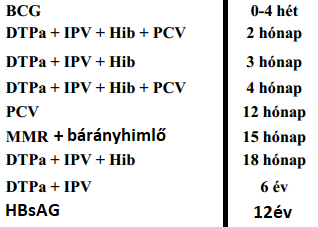
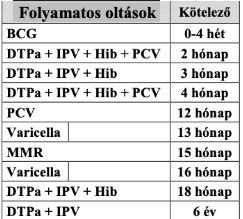
make some changes

diff --git a/Nepegeszsegtan/nepeg.html b/Nepegeszsegtan/nepeg.html
@@ -167,16 +167,6 @@
 		eset-kontroll vzsgálat -> esetekből indul ki: eséj
 </ul></details>
 
-<li>1) gyakorlat - pdf</li><ul>
-	<li>+ epidemiológia: szenzitiv, specifi, pozitiv negatív prediktív, kohorsz relatív kockázat, eset kontrol eséjhányados</li>
-	<li>+ alkohol eset</li>
-	<li>+ dohány eset</li>
-	<li>(+ jegyzeteim)</li>
-</ul>
-<li>2) teszt</li>
-<li>(3) moodle</li>
-
-
 <details open><summary class="mainTitle">Gyakorlati</summary><ul class="normal">
 	<details class="kerdes"><summary class="status">1) Egészségfejlesztési program tervezése a megadott kritériumok alapján</summary><ul class="normal">
 		<details><summary>(bevezetés)</summary><ul class="normal">
@@ -735,8 +725,10 @@
 		<li style="font-size:80%">Az egészségügyi szakember felelőssége az is, hogy rámutasson a bizonyítottan hatékony támogatási formákra. Ezzel megelőzhető, hogy a páciensek időt, pénzt és energiát pazaroljanak egyéb módszerekre és az így szerezett negatív tapasztalataik tovább nehezítsék a leszokás folyamatát. A farmakoterápiás módszerek - összefoglaló táblázat: <img class="mini" data-src="sopqlijq.png"> A nem gyógyszeres leszokástámogatás módszerei - összefoglaló táblázat: <img class="mini" data-src="dpvtowew.png"></li>
 	</ul></details>
 	<details class="kerdes"><summary class="status">12) Alkohol SBI szerepjátékkal:</summary><ul class="normal">
-		<li>Az orvosi / egészségügyi gyakorlatban mind a mai napig nagyon sokszor nem történik meg a páciens  alkoholfogyasztásának megfelelő felmérése, a kérdések sokszor megrekednek a fogyasztás tényén illetve valamekkora fogyasztás rögzítésén. Helyesebb azonban az alkoholfogyasztást pontosabban rögzíteni (ld. standard italok), és ez alapján megítélni, hogy a páciens pl. mértékletes vagy nagyivó.</li>
-		<li>Rögzíteni szükséges az alkohol lehetséges káros hatásait is. Amennyiben csak rövidebb idő áll rendelkezésre, a CAGE szűrő kérdőív használata javasolt, több idő rendelkezésre állása esetén az AUDIT kérdőív használható</li>
+	  <font style="font-size:80%"><strong>s</strong>creening and <strong>b</strong>rief <strong>i</strong>ntervention</font>
+		<li>célja: segít a páciensnek tudatos döntést hozni a leszokással kapcsolatban (ő hozza meg a döntést)</li>
+		<li>rögzíteni szükséges az alkohol lehetséges káros hatásait is. Amennyiben csak rövidebb idő áll rendelkezésre, a CAGE szűrő kérdőív használata javasolt, több idő rendelkezésre állása esetén az AUDIT kérdőív használható</li>
+	  <strong>kérdések, kérdőívek első lépés</strong>
 		<li>CAGE</li><ul>
 			A kérdőívet a megadott sorrendben, szóban kell felvenni, kettő db igen válasz már pozitív eredményt
 			jelent és felveti az alkoholhasználati zavar gyanúját, minimál intervenciót kell végezni illetve további
@@ -746,153 +738,120 @@
 			<li><abbr title="Guilty">G:</abbr> Érzett-e bűntudatot, lelkiismeretfurdalást valaha alkoholfogyasztása miatt?</li>
 			<li><abbr title="Eye-opener">E:</abbr> Előfordult már, hogy ébredéskor alkoholt kellett fogyasztania a másnaposság tüneteinek enyhítésére vagy hogy csökkentse feszültségét?</li>
 		</ul>
-		<li><span class="syno">standard ital | ital | standard</span> = 10g alkohol</li><ul>
-			<li>275ml sör</li>
-			<li>100ml bor</li>
-			<li>30ml égetett szesz (gondolom vodka)</li>
-		</ul>
-		<li>nagyivó: többet fogyaszt az 'ajánlottnál':</li><ul>
-			<li>nők esetében > 7standard/hét</li>
-			<li>férfiak esetében > <abbr title="1sör naponta pont a határ, mert 1sör ~ fél liter">14standard/hét</abbr></li>
-		</ul>
-		<li>rohamivó: egy alkalommal(kb.2óra alatt) megiszik >6standard italt; <abbr title="madármászástól még nem lettem az">havonta legalább 1x</abbr></li>
-		<li>alacsony kockázatú alkoholfogyasztó</li><ul>
-			<li>férfi napi max 2standard; nő napi max 1standard; hetente legalább 2nap amikor semmit &#10140; heti 10, heti 5 max</li>
-			<li>egy alkalommal max 3/4(n/f) ital fogyasztása</li>
-			<li>18éves kor alatt lehetőleg ne (kitolni az elsőt amíg lehet)</li>
-			<li>0 alkohol &#10140; várandós, szoptató, járművezetés, egyes betegségek, egyes gyógyszerek esetén</li>
-		</ul>
 		<details><summary>(AUDIT)</summary><ul class="normal">
-			0-7 pont =Alacsony kockázatú ivás Felvilágosítás; 8-15 pont = Magas kockázatú ivás Rövid intervenció,
-			újra értékelés (kétévente); 16-19 pont =Ártalmas ivás Rövid intervenció, rendszeres monitorozás; 20-
-			pont =Alkoholfüggőség valószínű Szakellátásba irányítás diagnosztikai és terápiás céllal
+			0-7 pont = Alacsony kockázatú ivás Felvilágosítás; 
+			8-15 pont = Magas kockázatú ivás Rövid intervenció, újra értékelés (kétévente); 
+			16-19 pont = Ártalmas ivás Rövid intervenció, rendszeres monitorozás; 
+			20-pont = Alkoholfüggőség valószínű Szakellátásba irányítás diagnosztikai és terápiás céllal
 		</ul></details>
+		<details><summary>mennyi alkoholt fogyaszt?</summary><ul class="normal">
+			<li><span class="syno">standard ital | ital | standard</span> = 10g alkohol</li><ul>
+				<li>275ml sör</li>
+				<li>100ml bor</li>
+				<li>30ml égetett szesz (gondolom vodka)</li>
+			</ul>
+			<li>nagyivó: többet fogyaszt az 'ajánlottnál':</li><ul>
+				<li>nők esetében > 7standard/hét</li>
+				<li>férfiak esetében > <abbr title="1sör naponta pont a határ, mert 1sör ~ fél liter">14standard/hét</abbr></li>
+			</ul>
+			<li>rohamivó: egy alkalommal(kb.2óra alatt) megiszik >6standard italt; <abbr title="madármászástól még nem lettem az">havonta legalább 1x</abbr></li>
+			<li>alacsony kockázatú alkoholfogyasztó</li><ul>
+				<li>férfi napi max 2standard; nő napi max 1standard; hetente legalább 2nap amikor semmit &#10140; heti 10, heti 5 max</li>
+				<li>egy alkalommal max 3/4(n/f) ital fogyasztása</li>
+				<li>18éves kor alatt lehetőleg ne (kitolni az elsőt amíg lehet)</li>
+				<li>0 alkohol &#10140; várandós, szoptató, járművezetés, egyes betegségek, egyes gyógyszerek esetén</li>
+			</ul>
+		</ul></details>
+	  <strong>teendők, ha ártalmas szint</strong>
+		<img data-src="yypmrrul.png">
+		<li>nyitott kérdés &#10140; gondolt-e már arra, hogy leakar szokni (ne azt, hogy le kéne)</li><ul>
+			<li>vagy magától keresett fel, azt bizonyítja, hogy érdekli + nagy lépés ez (kevesen jutnak erre, sokkal jobb eséjek)</li>
+		</ul>
+		<li>előnyeinek felsorolása</li>
+		<li>Menu ➜ lehetőségeket kínálunk fel amik közül választhat (nem csak a teljes leszokás visz előre, hanem pl. további konzultáció stb.) ➜ ennek előnye, hogy növeli a responsibility-t, ugyanis ő dönt a sorsáról, és lép a leszokás irányába</li>
+		<li>kézségfejlesztés</li><ul>
+			<li>nagy kockázatú hejzetek &#10140; mikor, hol, miért?</li><ul>
+				<li>hejette ihat mást is / kevesebbszer megy oda</li>
+			</ul>
+			<li>depresszió &#10140; szakellátás javaslása</li>
+		</ul>
+		<li>követés</li><ul>
+			<li>siker &#10140; elismerés + öröm + következő időpont</li>
+			<li>nem sikerült:</li><ul>
+				<li>moralizálás kerülése ('pedig megbeszéltük, nem értem mi ojan nehéz ezen')</li>
+				<li>bizonyos siker biztos volt, azt kiemelni</li>
+				<li>normalizálás &#10140; betegség, tehát teljesen normális a visszaesés, és a legjobb hogy visszajött</li>
+			</ul>
+		</ul>
 		<img data-src="stmiimud.png">
 	</ul></details>
-	<details class="kerdes"><summary style="background-color:orange" class="status">13) Mozgás minimál intervenció:</summary><ul class="normal">
-
-		5-17 évesen
-		• Napi 60 perc mérsékelten intenzív/intenzív testmozgás
-		• 60 perc fölötti mozgástól további kedvező hatások várhatók.
-		• Többnyire aerob gyakorlatok érdemes végezni, de heti háromszor intenzív testmozgást kell
-		beiktatni, ideértve az erőnlétet javító tevékenységeket is
-		18-64 évesen
-		• Hetente legalább 150 perc mérsékelt-közepes intenzitású (a maximális pulzus 50-70%-a), vagy
-		75 perc intenzív kardio mozgás indokolt .• Mérsékelt testmozgás az, amely során már éppen nem tudunk folyamatos társalgást
-		fenntartani.
-		• Az aerob aktivitások hosszának legalább 10 percesnek kell lenniük
-		• Legjobb hatás a fenti mozgásmennyiség duplájával érhető el.
-		• Hetente legalább kétszer izomerősítő gyakorlatokat kell végezni.
-		65+ évesen
-		• Hetente legalább 150 perc mérsékelten intenzív vagy 75 perc intenzív gyakorlatok elvégzése
-		indokolt.
-		• Mérsékelt testmozgás az, amely során már éppen nem tudunk egy folyamatos társalgást
-		fenntartani.
-		• Az aerob aktivitások hosszának legalább 10 percesnek kellene lenniük
-		• Legjobb hatás a fenti mozgásmennyiség duplájával érhető el.
-		• Hetente legalább kétszer izomerősítő gyakorlatokat kell végezni.
-		• Ha a mobilitás korlátozott, kiemelten ajánlott hetente háromszor olyan fizikai aktivitás végzése,
-		mely fejleszti az egyensúlyt és csökkenti az elesések kockázatát.
-		• Ha az egészségi állapot akadályozza az ajánlott fizikai aktivitás elérését, mindenképpen fontos az
-		egészségi állapothoz mérten a lehető legnagyobb aktivitás szint elérése
-		FYSS - Fysisk aktivitet i Sjukdomsprevention och Sjukdomsbehandling Physical Activity in the Prevention
-		and Treatment of Disease: 5A módszer a fizikai aktivitásban (Assess, Advise, Agree, Assist, Arrange)
-		• Assess – értékeljük: fizikai aktivitás szintjének felmérése, van-e hajlandóság a változásra
-		• Advise – tanácsadás: egyénre szabott tanácsadás a beteg leletei, fizikai státusza alapján,
-		figyelembe véve életkort, nem, BMI, betegségek, korábbi életmódváltásra tett kísérlet
-		(szóbeli/írásbeli)
-		• Agree – megállapodás: kommunikáció a partnerség szellemében, olyan betegközpontú
-		technikák és a beteg által preferált és elérhető tevékenységek megtalálása, reális célok kitűzése
-		• Assist – segítség, támogatás: különféle technikák használata a beteg motivációjának és
-		önbizalmának növelésére, környezetének bevonására
-		• Arrange – a nyomon követés megszervezése: folyamatos segítségnyújtás / támogatás,
-		rendszeres vizit, a „kezelési terv” szükség szerinti igazítása (akár intenzívebb mozgásprogram,
-		vagy speciális, egyedi elbírálást igénylő esetek vonatkozásában)
-
+	<details class="kerdes"><summary class="status">13) Mozgás minimál intervenció:</summary><ul class="normal">
+	  <strong>5A módszer a fizikai aktivitásban (Assess, Advise, Agree, Assist, Arrange)</strong>
+		<li>Assess – értékeljük:</li><ul>
+			<li>mennyit mozog? (vs mennyit kéne)</li>
+			<li>felmerült-e már a gondolat, hogy változtatna ezen?</li>
+		</ul>
+		<li>Advise – tanácsadás: egyénre szabott tanácsadás a beteg leletei, fizikai státusza alapján, figyelembe véve életkort, nem, BMI, betegségek, korábbi életmódváltásra tett kísérlet (szóbeli/írásbeli)</li><ul>
+			<li>13-14.tétel</li>
+		</ul>
+		<li>Agree – megállapodás: kommunikáció a partnerség szellemében, olyan betegközpontú technikák és a beteg által preferált és elérhető tevékenységek megtalálása, reális célok kitűzése</li>
+		<li>Assist – segítség, támogatás:</li><ul>
+			<li>különféle technikák használata a beteg motivációjának és önbizalmának növelésére</li>
+			<li>környezetének bevonása (szakemberek)</li>
+		</ul>
+		<li>Arrange – a nyomon követés megszervezése: folyamatos segítségnyújtás / támogatás, rendszeres vizit, a „kezelési terv” szükség szerinti igazítása (akár intenzívebb mozgásprogram, vagy speciális, egyedi elbírálást igénylő esetek vonatkozásában)</li>
+	  <hr>
+	  <strong>5-17évesen</strong>
+		<li>naponta 60perc aerob mozgás (max. pulzus 70-80%a)</li><ul>
+			max.pulzus = 220 - életkor
+		</ul>
+	  <strong>18-64 évesen</strong>
+		<li>hetente min. 150perc mérsékelt-közepes intenzitású (max. pulzus 50-70%-a), vagy 75perc aerob mozgás</li>
+		<li>hetente min. 2x izomerősítő gyakorlatok</li>
+	  <strong>65+ évesen</strong>
+		<li>ugyanaz, mint előbbi</li>
+		<li>kell egyensújgyakorlat is</li>
 	</ul></details>
-	<details class="kerdes"><summary style="background-color:orange" class="status">14) Betegség-specifikus mozgási ajánlások:</summary><ul class="normal">
-
-	 Általános tanácsadás
-		• Fokozatosság a terhelés intenzitásának, időtartamának növelésekor
-		• Bemelegítés, levezetés
-		• Edzéshez megfelelő felszerelés (ruházat, cipő, stb.)
-		• Ne eddzen étkezés után kb. 2 óráig
-		• Az edzés ne legyen megerőltető, okozzon jó közérzetet
-		• Edzés közben rendszeresen ellenőrizzük a pulzusszámot (40 év alatt „beszédpróba”)
-		• Több napos kihagyás után alacsonyabb intenzitással folytatni
-		• Orvosi vizsgálatot igénylő tünetek ismerete• Bemelegítés: folyamatosan növekvő intenzitással az ízületi mozgásterjedelem növelése
-		(izomnyújtás) és az anyagcsere folyamatok, a légzés, a vérkeringés „felmelegítése”, 10 perc,
-		idősebbeknek 15 perc,
-		• Maga az „edzés” az ajánlott tartamban és intenzitással,
-		• Levezetés: izomnyújtások, relaxációs gyakorlatok, 10 perc.
-	 Túlsúlyosak mozgásterápiája:
-		• Fontos a fokozatosság az intenzitás, és a mozgásforma megválasztásában is: időt kell hagyni a
-		szervezetnek az alkalmazkodáshoz.
-		• Érdemes közepes intenzitású (50-60%-s a maximális pulzusnak, már izzasztó, "lihegtető")
-		mozgást minél hosszabb ideig, de legalább 30 percig fenntartani alkalmanként.
-		• Minél több a mozgás, annál jelentősebb a zsigeri zsír mennyiségének csökkenése – amellett,
-		hogy az izom mennyisége diéta mellett is megmarad
-		• A testmozgás még testsúlycsökkenés nélkül is csökkenti a szív-érrendszeri betegségek
-		kockázatát
-		• Érdemes ízületkímélő mozgásformákat választani: kezdetben legjobb a gyaloglás, kerékpározás,
-		vagy akár az úszás, evezés is.
-	 A cukorbetegek mozgásterápiája
-		• Legalább 150 perc / hét közepes intenzitású kardiomozgás (maximális pulzus 40-60%-a, de
-		edzett személyeknél előnyben részesítendő a 60% feletti intenzitás, mert ekkor jobb a glükóz
-		hasznosítása)
-		• Nagy izomcsoportokat megmozgató kardiomozgás úgy elosztva, hogy egy alkalom legalább 30
-		perces legyen, és két alkalom között ne teljen el több, mint 48 óra.
-		• Kardioedzés mellett tartalmazzon izomerősítő edzéseket is hetente 2 alkalommal, ugyanis a két
-		típusú edzés kombinálása hatékonyabbá teszi a terápiát.
-		• Nem kezdhető el a cukor 16 mmol/l értéke felett!
-		• Hosszabb edzéseknél a hipoglikémia elkerülése végett szénhidrátbevitel javasolt.
-		• 1-es típusú cukorbetegeknél fontos az étkezés-inzulin-mozgás helyes beosztása, egyensúlya
-		• A mozgás vércukor szintre gyakorolt jótékony hatása mögött több tényező is meghúzódik.
-		Izommozgás során, az izomszövet összehúzódáskor aktívvá válik az izom inzulint nem igénylő
-		cukorfelvételi mechanizmusa, mely károsodott inzulintól függő felvételi képesség esetén is
-		tovább működik.
-		• Ráadásul az izomszövet cukorfelvétele testmozgást követően is megmarad – az inzulintól
-		független felvétel,az inzulinfüggő még tovább
-		• A rendszeres, közepes intenzitású mozgás javítja az izom inzulin érzékenységét azáltal, hogy
-		emeli a cukoranyagcserében, inzulinválaszban részt vevő egyes fehérjék termelésének szintjét,
-		illetve a megtermelt fehérjék aktivitását
-		Magas vérnyomásúak mozgásterápiája
-		• Az aerob kapacitás 70%-át meg nem haladó fizikai aktivitás (például gyaloglás, futás, úszás)
-		javasolt hetente 3-4 alkalommal, de lehetőleg minden nap, 30-60 perces időtartamban.
-		• Fontosak a rendszeres mérések: vérnyomás 180/110 nyugalmi értéke felett nem szabad
-		elkezdeni a sportolást, és terhelés közben nem érheti el a 220/120-at.• A testsúly csökkentése is hozzájárul a vérnyomásértékek normalizálásához.
-		• Magas vérnyomással is lehet izomerő növelő, akár súlyzós edzéseket is végezni a kardioedzések
-		mellett, de úgy kell megválasztani az intenzitást, hogy mellette még nem szabad a lélegzetet
-		visszatartani, préselni, folyamatosan kell lélegezni. Ezért inkább a kisebb súlyok ajánlottak 10-15
-		ismétlésig.
-	 Szív-érrendszeri betegek mozgásterápiája
-		• Legalább 150 perc / hét közepes intenzitású (max pulzus 40-75%-án), nagy izomcsoportokat
-		megmozgató kardiomozgás úgy elosztva, hogy egy alkalom legalább 30 (de inkább 50-60 perces)
-		legyen (alkalmanként legalább 200 kcal felhasználása), hetente legalább 4 napon.
-		• Fontos a fokozatosság: érdemes tempós gyaloglással kezdeni a mozgásterápiát, kiváltképp ha
-		túlsúly is fennáll.
-		• Hetente 2x30 perc izomerő növelő edzés folyamatos légzés mellett (préselés,
-		lélegzetvisszatartás nélkül).
-		• Kiegészítésként javasolt egyensúlyt javító gyakorlatok. Külön oda kell figyelni, hogy néhány
-		koleszterincsökkentő gyógyszer (statin) okozhat fáradtságérzetet, fájdalmat is az izmokban –
-		nem összekeverendő az akár mozgás utáni izomlázzal/fáradtsággal.
+	<details class="kerdes"><summary class="status">14) Betegség-specifikus mozgási ajánlások:</summary><ul class="normal">
+	  <strong>Általános tanácsadás</strong>
+		<li>bemelegítés: 10 perc</li>
+		<li>ne eddzen étkezés után kb. 2 óráig</li>
+		<li>levezetés: izomnyújtások, relaxációs gyakorlatok, 10 perc.</li>
+	  <strong>Túlsúlyosak mozgásterápiája</strong>
+		<li>közepes intenzitású (50-60% max.pulzus, izzasztó, "lihegtető") mozgás legalább 30percig alkalmanként</li>
+		<li>minél több a mozgás, annál jelentősebb a zsigeri zsír mennyiségének csökkenése – amellett, hogy az izom mennyisége diéta mellett is megmarad</li>
+		<li>a testmozgás még testsúlycsökkenés nélkül is csökkenti a szív-érrendszeri betegségek kockázatát</li>
+		<li>érdemes ízületkímélő mozgásformákat választani: kezdetben legjobb a gyaloglás, kerékpározás, vagy akár az úszás, evezés is</li>
+	  <strong>A cukorbetegek mozgásterápiája</strong>
+		<li>közepes intenzitású (50-60% max.pulzus, izzasztó, "lihegtető") mozgás legalább 30percig alkalmanként</li>
+		<li>heti legalább 150perc, és két alkalom között ne teljen el több, mint 48 óra.</li>
+		<li>kardioedzés mellett tartalmazzon izomerősítő edzéseket is hetente 2 alkalommal, ugyanis a két típusú edzés kombinálása hatékonyabbá teszi a terápiát</li>
+		<li>hosszabb edzéseknél a hipoglikémia elkerülése végett szénhidrátbevitel javasolt</li>
+		<li>1-es típusú DM-nél fontos az étkezés-inzulin-mozgás helyes beosztása, egyensúlya</li>
+	  <strong>Magas vérnyomásúak mozgásterápiája</strong>
+		<li>Az aerob kapacitás 70%-át meg nem haladó fizikai aktivitás (például gyaloglás, futás, úszás) javasolt hetente 3-4 alkalommal, de lehetőleg minden nap, 30-60 perces időtartamban.</li>
+		<li>Fontosak a rendszeres mérések: vérnyomás 180/110 nyugalmi értéke felett nem szabad elkezdeni a sportolást, és terhelés közben nem érheti el a 220/120-at.</li>
+		<li>A testsúly csökkentése is hozzájárul a vérnyomásértékek normalizálásához.</li>
+		<li>Magas vérnyomással is lehet izomerő növelő, akár súlyzós edzéseket is végezni a kardioedzések mellett, de úgy kell megválasztani az intenzitást, hogy mellette még nem szabad a lélegzetet visszatartani, préselni, folyamatosan kell lélegezni. Ezért inkább a kisebb súlyok ajánlottak 10-15 ismétlésig.</li>
+	  <strong>Szív-érrendszeri betegek mozgásterápiája</strong>
+		<li>Legalább 150 perc / hét közepes intenzitású (max pulzus 40-75%-án), nagy izomcsoportokat megmozgató kardiomozgás úgy elosztva, hogy egy alkalom legalább 30 (de inkább 50-60 perces) legyen (alkalmanként legalább 200 kcal felhasználása), hetente legalább 4 napon.</li>
+		<li>Fontos a fokozatosság: érdemes tempós gyaloglással kezdeni a mozgásterápiát, kiváltképp ha túlsúly is fennáll.</li>
+		<li>Hetente 2x30 perc izomerő növelő edzés folyamatos légzés mellett (préselés, lélegzetvisszatartás nélkül).</li>
+		<li>Kiegészítésként javasolt egyensúlyt javító gyakorlatok. Külön oda kell figyelni, hogy néhány koleszterincsökkentő gyógyszer (statin) okozhat fáradtságérzetet, fájdalmat is az izmokban – nem összekeverendő az akár mozgás utáni izomlázzal/fáradtsággal.</li>
 	</ul></details>
 	<details class="kerdes"><summary style="background-color:orange" class="status">15) Táplálkozással kapcsolatos tanácsadás</summary><ul class="normal">
-		• A tápanyagok: a táplálék azon összetevői, melyek felszívódva élettani funkciókat töltenek be.
-		• A tápanyagszükséglet az esszenciális tápanyagoknak az a mennyisége, amit az egészség
-		megtartásához naponta el kell fogyasztanunk.
-		• A tápanyag-szükségleti norma az egyes esszenciális tápanyagoknak az a napi átlagos
-		mennyisége, ami az adott csoportban minden egyes egészséges ember szükségletét fedezi
-		• Az energiaszükséglet a táplálékkal naponta felveendő energiamennyiség.
-		• A teljes napi energiaszükséglet három összetevőből áll:
-			o az alapanyagcsere értékből,
-			o a fizikai aktivitáshoz szükséges energiaértékből,
-			o a táplálék feldolgozásához szükséges energiaértékből
-		• Az alapanyagcsere energiaértéke kb. a napi teljes
-		energiaszükséglet 50-80%-a. Az alapanyagcserét befolyásoló
-		tényezők – életkor – nem – testmagasság – testsúly →
-		izomtömeg, zsírtömeg – Táplálkozás – a környezet
-		hőmérséklete
+		<details><summary style="font-size:80%">(bevezetés)</summary><ul class="normal">
+			• A tápanyagok: a táplálék azon összetevői, melyek felszívódva élettani funkciókat töltenek be.
+			• A tápanyagszükséglet az esszenciális tápanyagoknak az a mennyisége, amit az egészség megtartásához naponta el kell fogyasztanunk.
+			• A tápanyag-szükségleti norma az egyes esszenciális tápanyagoknak az a napi átlagos mennyisége, ami az adott csoportban minden egyes egészséges ember szükségletét fedezi
+			• Az energiaszükséglet a táplálékkal naponta felveendő energiamennyiség.
+			• A teljes napi energiaszükséglet három összetevőből áll:
+				o az alapanyagcsere értékből,
+				o a fizikai aktivitáshoz szükséges energiaértékből,
+				o a táplálék feldolgozásához szükséges energiaértékből
+		</ul></details>
+		
+		• Az alapanyagcsere energiaértéke kb. a napi teljes energiaszükséglet 50-80%-a. Az alapanyagcserét befolyásoló tényezők – életkor – nem – testmagasság – testsúly → izomtömeg, zsírtömeg – Táplálkozás – a környezet hőmérséklete
 		<img data-src="vrodefxc.png">
 		<img data-src="pxsnfnyv.png">
 		<img data-src="mmplthgf.png">
@@ -903,31 +862,34 @@
 		<img data-src="vjcpundy.png">
 		<img data-src="cpgkcygt.png">
 	</ul></details>
-	<details class="kerdes open"><summary style="background-color:orange" class="status">16) Egyéni egészségterv készítése (CV score, javasolt szűrővizsgálatok, védőoltások, életmódi tanácsok)</summary><ul class="normal">
+	<details class="kerdes open"><summary class="status">16) Egyéni egészségterv készítése (CV score, javasolt szűrővizsgálatok, védőoltások, életmódi tanácsok)</summary><ul class="normal">
 		<details class="kerdes"><summary>Egyéni egészségterv készítése (<strong>CV score</strong>, javasolt szűrővizsgálatok, védőoltások, életmódi tanácsok)</summary><ul class="normal">
-			• A halálozások kb 50%áért felelős
-			• Rizikófaktorok: dohányzás, alcohol, mozgásszegész életmód, egészségtelen táplálozás, orális
-			fogamzásgátlók, elhízás, etnika, nem, kor, genetika
-			• Rizikóbecslés:
-				o SCORE:
-					▪ kor, nem, syst P, chol/HDL, dohányzás
-					▪ Százalékban megmutatja, hogy 10 éven belük mennyi az esély a halálos kimenetlnek.
-				o Framingham risck score: kor, nem total Chol, HDL, Psyst, dohányzás
+			<li>halálozások kb 50%áért felelős</li>
+			<li>Rizikófaktorok: dohányzás, alcohol, mozgásszegész életmód, egészségtelen táplálozás, orális fogamzásgátlók, elhízás, etnika, nem, kor, genetika</li>
+		  <strong>CHA<sub>2</sub>DS<sub>2</sub>-VASc score</strong>
+			<li>-VASc kihagytam, elég ha ennyit magolok szerintem</li>
+			<li>a rizikó azt jelenti, hogy minden évben akkora a stroke eséje pitvarfibrilláció esetében, ha nem szed antikoagulánst</li>
+			<img data-src="auokvpkx.png">
 		</ul></details>
 		<details class="kerdes"><summary>Egyéni egészségterv készítése (CV score, <strong>javasolt szűrővizsgálatok</strong>, védőoltások, életmódi tanácsok)</summary><ul class="normal">
-			• Szekunder prevenció része
-			• Részvétel alkalomszerű (kampány, akciók..), szervezett szűrővizsgálatokon
-			• Emlőszűrés: 45-65 év, 2 évente kijelölt szűrőállomáson
-			• Méhnyakrák: 25-65 és, 3 évente területi alapon szervezett
-			• Vastagbél szűrés: 45-65 és, 2 évente székletminta alapján, ha pozitív- colonoscopia
-			• Egyéni kockázatú tényezők alapján:
-				o Tüdőszűrés: hajléktalanok és velük dolgozók, eü dolgozók, börtönben dolgozók,
-				dohányzók
-				o Munkaköri alkalmassági
-			• Háziorvos: vérnyomás, cukor, labor, vizelet, UH, fizikai vizsgálat
+			<li>szekunder prevencióba tartoznak</li>
+		  <strong>daganat</strong>
+			<li>nők:</li><ul>
+				<li>cervix &#10140; 25-65éves kor között 2évente Papanicolaue-kenet (méhnyak citológia vattapálcával)</li>
+				<li>emlő &#10140; 45-65éves kor között 2évente mammográfia</li>
+			</ul>
+			<li>colorectalis &#10140; 50-70év között évente <abbr title="székletben van-e vér">Weber-teszt</abbr></li>
+			<li>tüdőrák &#10140; dohányosoknak 55év felett évente kéne low dose CT</li>
+		  <strong>egyéb</strong>
+			<li>háziorvos: vérnyomás, cukor, labor, vizelet, UH, fizikai vizsgálat</li>
+			<li>egyéni kockázatú tényezők alapján:</li><ul>
+				<li>tüdő - rtg(TBC): hajléktalanok és velük dolgozók, eü dolgozók, börtönben dolgozók</li>
+				<li>munkaköri alkalmassági</li>
+			</ul>
 		</ul></details>
 		<details class="kerdes"><summary>Egyéni egészségterv készítése (CV score, javasolt szűrővizsgálatok, <strong>védőoltások</strong>, életmódi tanácsok)</summary><ul class="normal">
 			<img data-src="wyxsypbd.jpg">
+			<img data-src="vpwclizv.png">
 			<li>fojamatos oltások</li><ul>
 				<li>BCG ➜ gyerekkori TBC ellen nyújt védettséget</li>
 				<li>DTPa(DiPerTe) diftéria-tetanusz toxoid és acelluláris pertussis komponenseket tartalmazó oltóanyag ➜ torokgyík + tetanusz + szamárköhögés ellen</li>
@@ -935,19 +897,20 @@
 				<li>Hib Haemophilus influenzae B ➜ tok antigén (konjugált!)</li>
 				<li>IPV élettelen(inaktivált) poliovírus vakcina</li>
 				<li>PCV13 Pneumococcus konjugált vakcina</li>
+			</ul>
+			<li>kampányoltások</li><ul>
 				<li>HBsAG Hepatits B „surface Antigen ➜ HBV és HDV ellen</li>
 			</ul>
-			<li>kampányoltások</li>
-				<img data-src="vpwclizv.png">
+		  <hr><span style="background-color:coral">ezeken lehetne majd szépíteni..</span>
 			<li>munkakör</li><ul>
 				<li>Hastífusz: szennyvízzel, emberi ürülékkel kontaktus</li>
 				<li>Hepatitis A: szennyvízzel, emberi ürülékkel kontaktus</li>
 				<li>Kullancsencephalitis, pl. erdészet</li>
 				<li>Veszettség: állatokkal kontaktus</li>
 				<li>Tetanusz: földdel kontaktus</li>
-				<li>HBV: eü.</li>
+				<li>HBsAG: eü.</li>
 				<li>Meningococcus: eü., labor</li>
-				<li>Influenza: eü.</li>
+				<li><span class="done">Influenza: eü.</span></li>
 			</ul>
 			<li>Utazással kapcsolatos:</li><ul>
 				<li>Sárgaláz</li>
